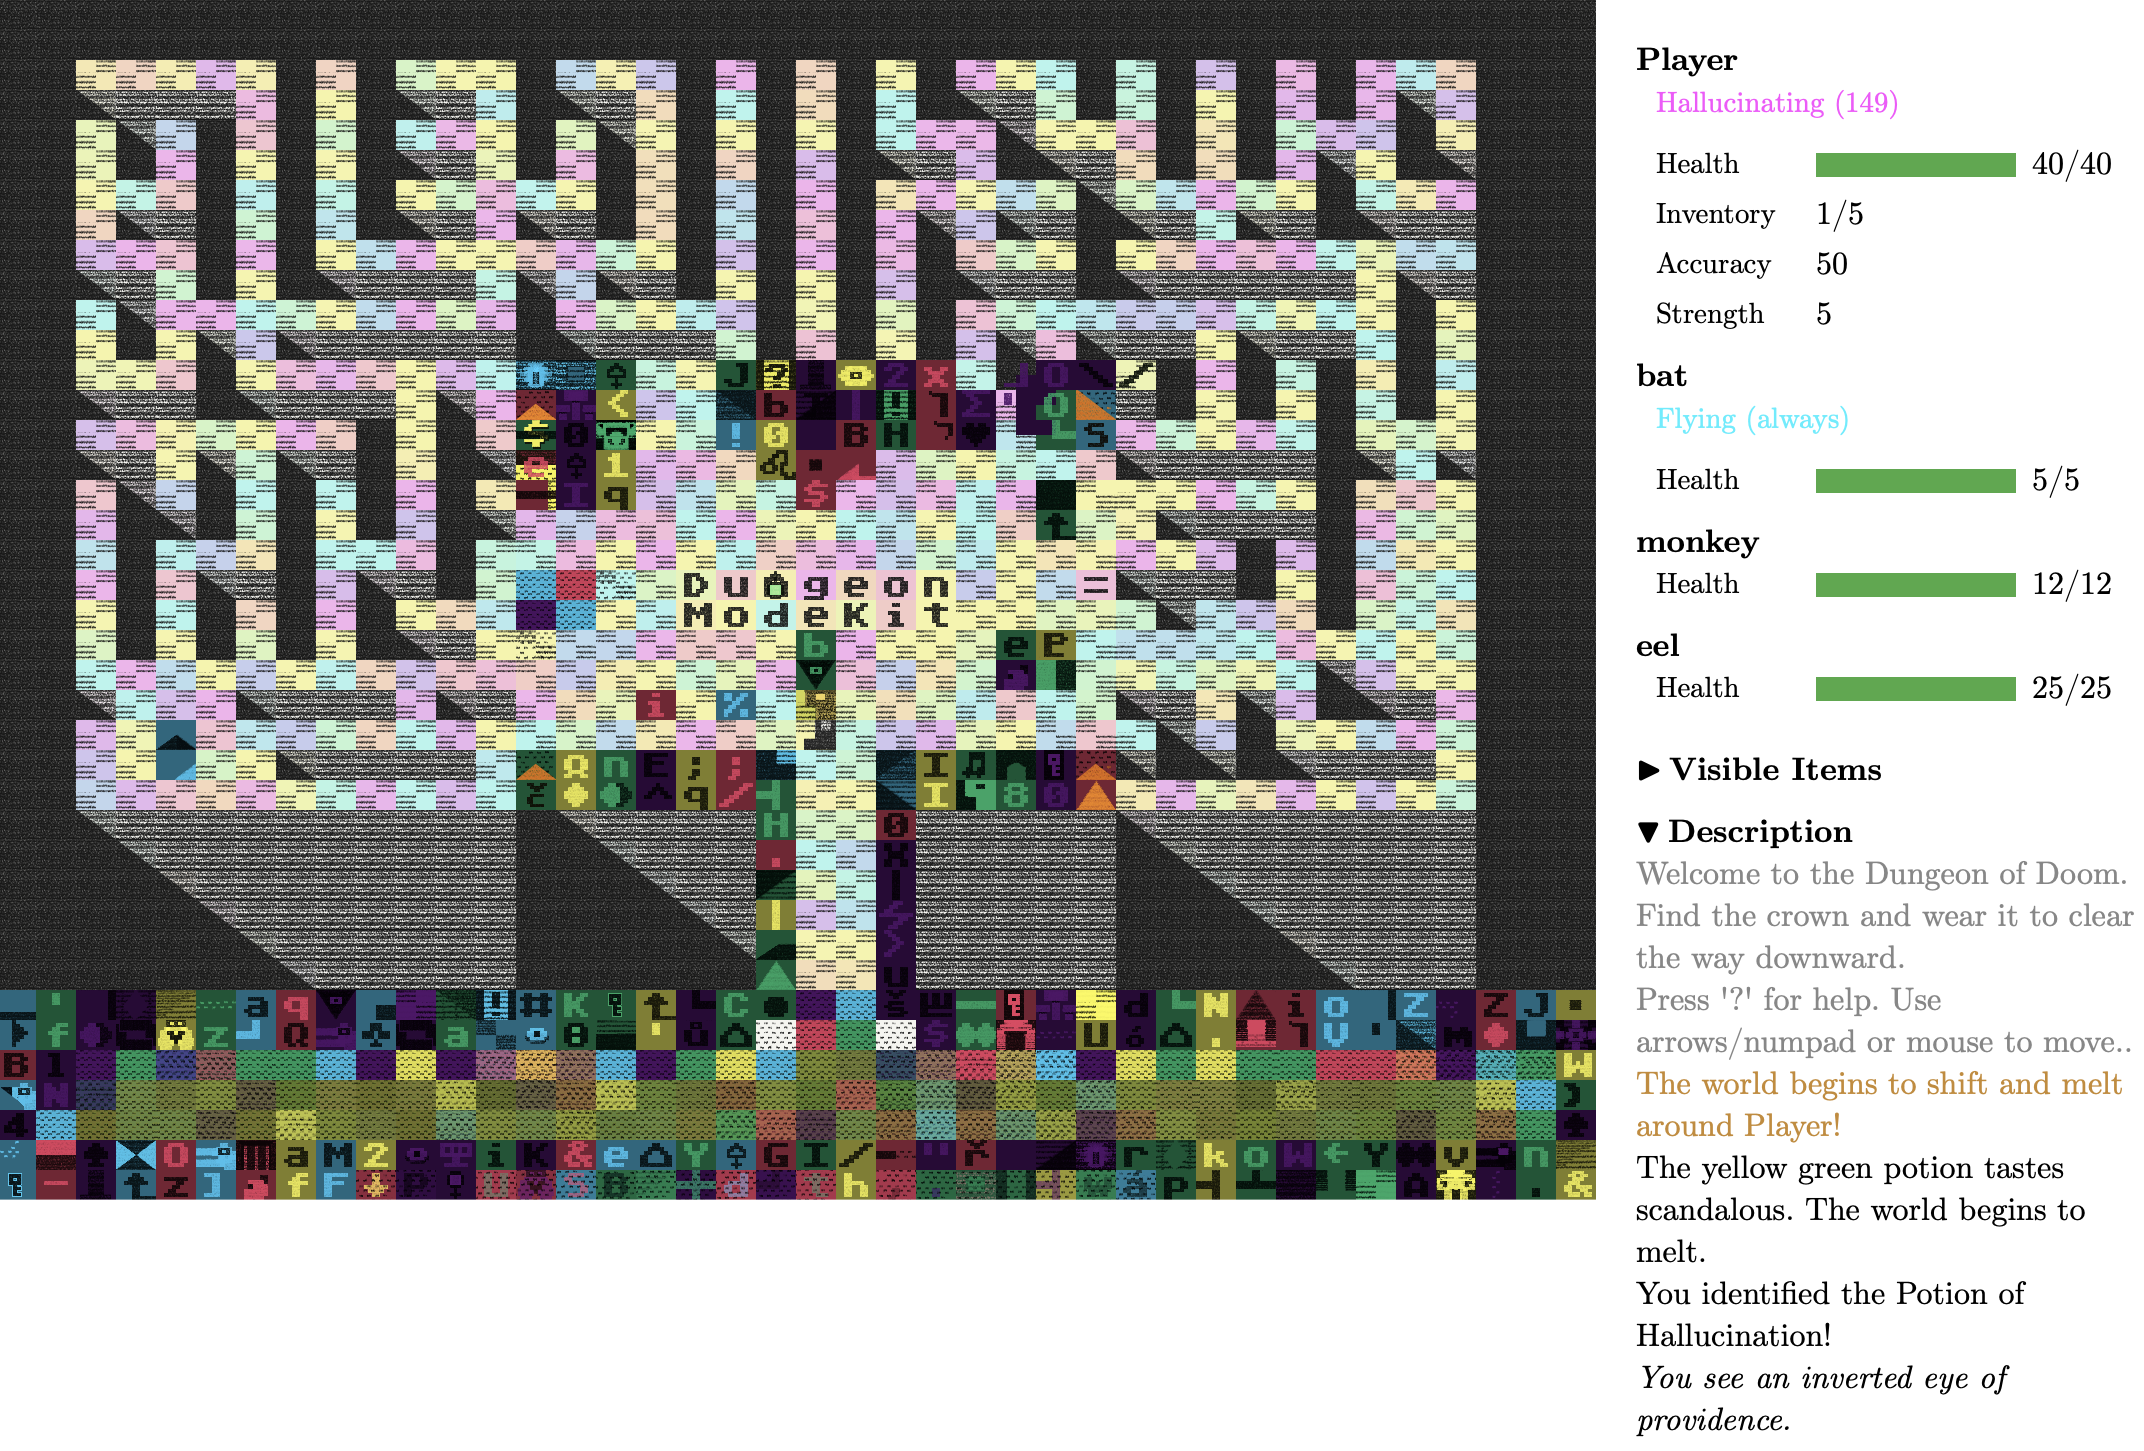
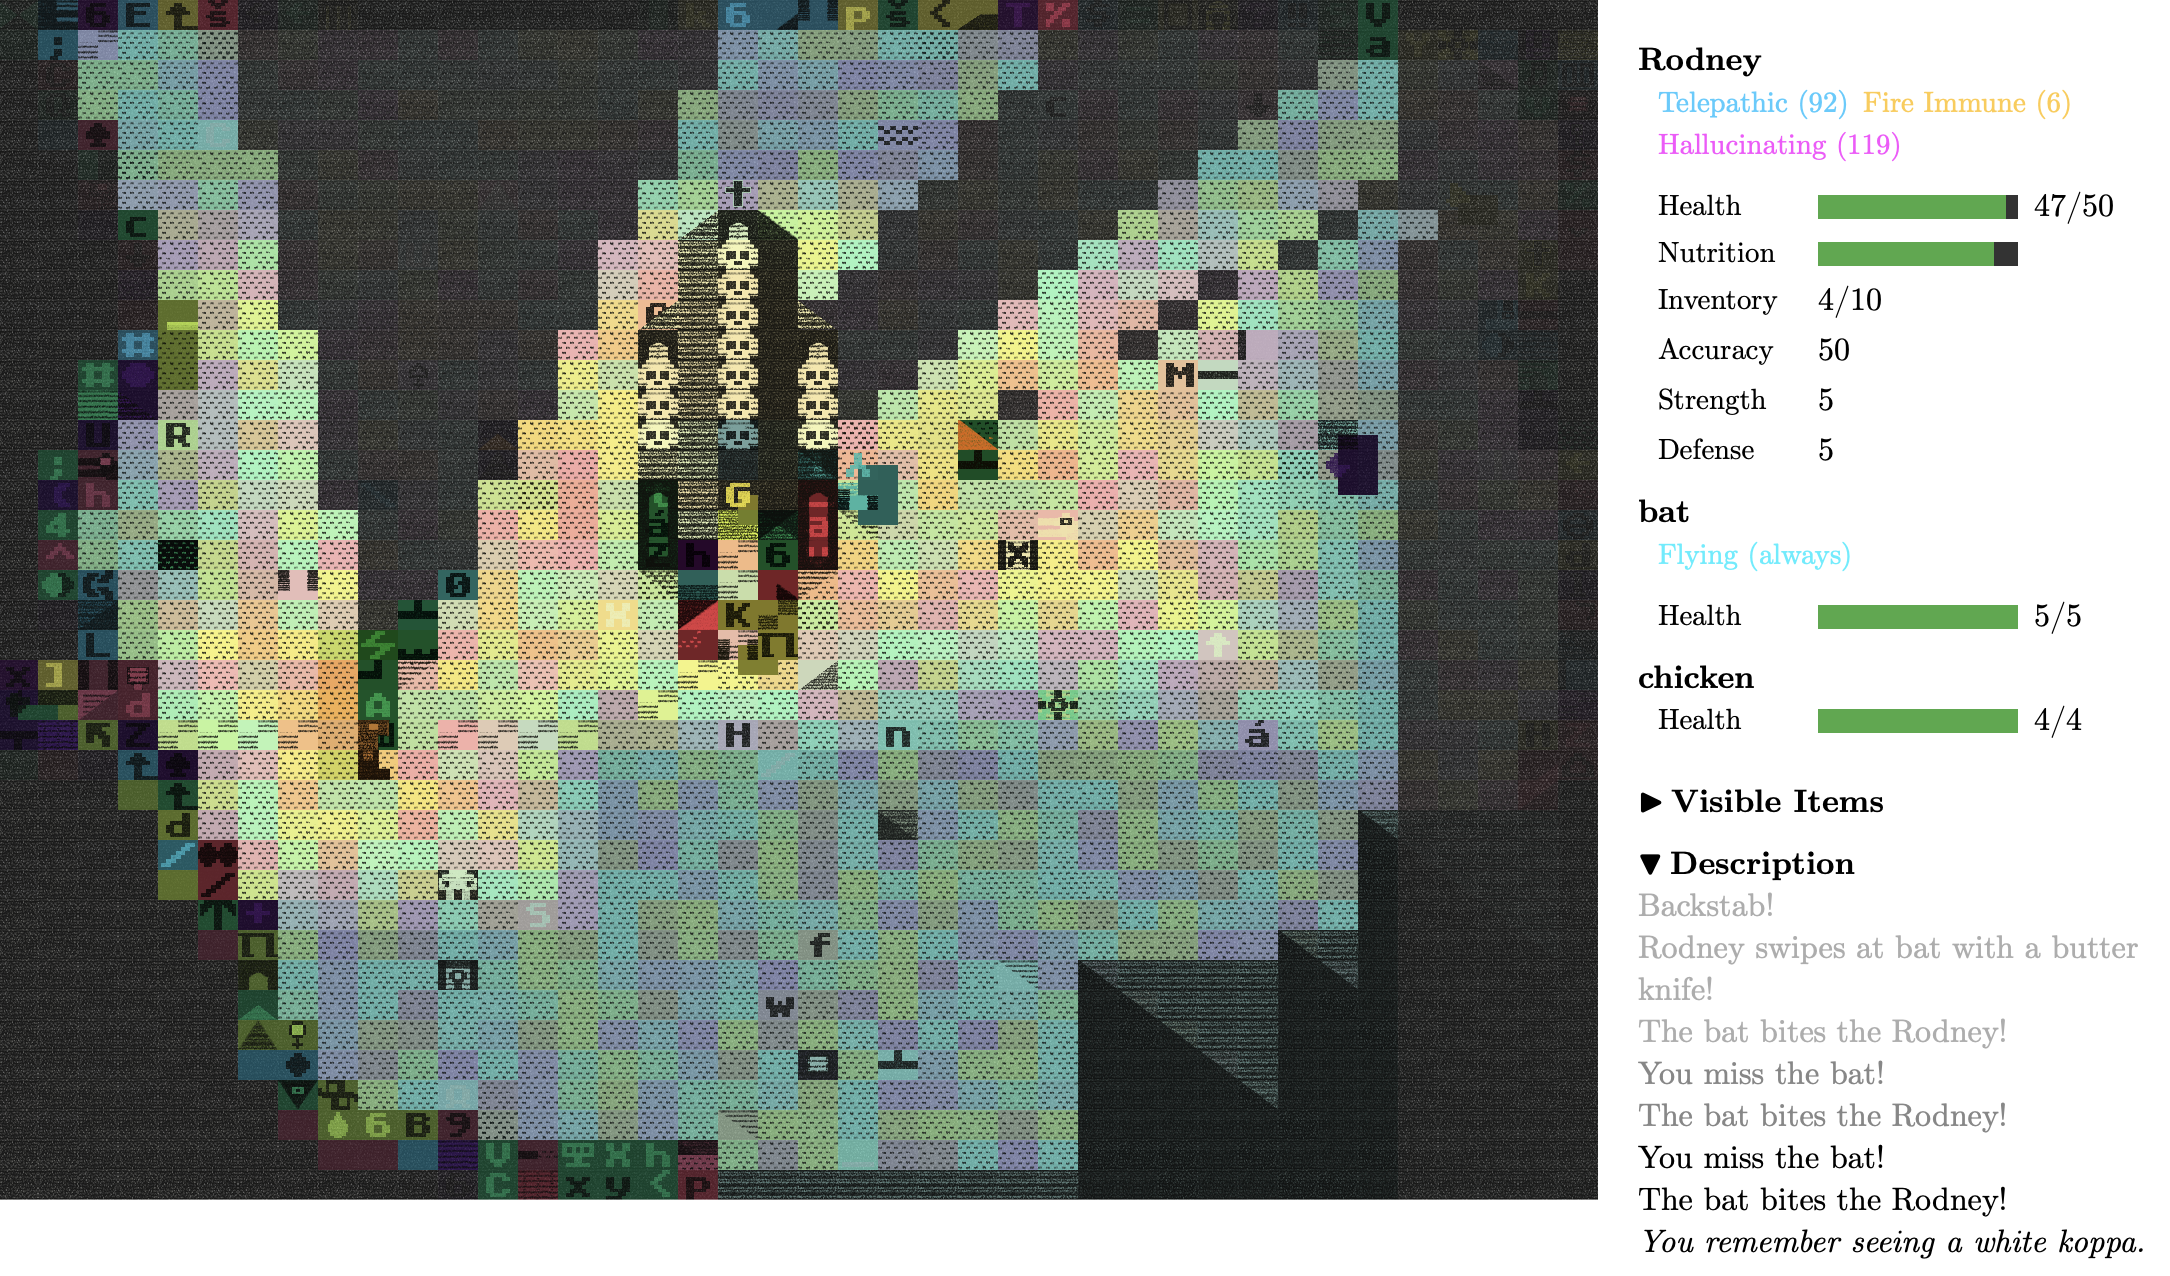
v 1.18b
- switched to a cooler hallucination image in journal entry

diff --git a/sound.js b/sound.js
@@ -17,7 +17,6 @@ class AudioManager {
 
     initHowler() {
         try {
-            // Use URLs from sprite data if available, otherwise construct default paths
             let urls = this.audioSpriteData.urls;
 
             // If URLs are relative and start with /, prepend BASE_PATH
@@ -29,7 +28,6 @@ class AudioManager {
                     return url;
                 });
             } else {
-                // Fallback to default paths
                 const basePath = `${globalVars.BASE_PATH}/assets/audio/effects`;
                 const formats = ['mp3', 'ogg', 'm4a'];
                 urls = formats.map(ext => `${basePath}.${ext}`);
@@ -67,19 +65,14 @@ class AudioManager {
         }
 
         try {
-            // Check if the sound exists in the sprite
             if (!this.audioSpriteData.sprite[soundName]) {
                 console.warn(`Sound '${soundName}' not found in audio sprite`);
                 return;
             }
-
             const id = this.sound.play(soundName);
-
-            // Apply optional volume adjustment
             if (options.volume !== undefined) {
                 this.sound.volume(options.volume * this.volume, id);
             }
-
             // Apply optional pitch/rate adjustment
             if (options.rate !== undefined) {
                 this.sound.rate(options.rate, id);

diff --git a/docs/IDEAS.md b/docs/IDEAS.md
@@ -3,6 +3,7 @@
 
 ## Tweaks
 
+- are the level span inputs of biome and prototype editor consistantly starting with 1 or 0? start with 0 since those are often hand edited maps
 - food should be an item category option in the random items section of the biome editor
 - In the prototype-editor A single-level prototype is either a generator or an authored map, hiding biome stuff. A multi-level prototype uses either basic map-generator or biomes with level overrides for authored maps. The current "No procedural generator — the map comes from a hand-authored .tmj. Placed features below still apply." message when a single generator default isn't enabled is misleading, and when the section is disabled we don't expect to be able to set placed features, despite the message saying otherwise. Should the "map generator" section in prototype-editor defaults be a biomes/single generator/authored map radio button selection? We can eliminate some of this with the single level/multi level toggle.
 - in prototype-editor we should be able to turn off biomes on a multi-level prototype and just use defaults- change 'floor plan' section name to 'biome plan' or something, add a top toggle to disable it to use defaults only
@@ -11,6 +12,11 @@
 ---
 
 ## Feature ideas
+
+## Actor selectors in biome editor
+
+- Add the ability to pick which actor is used as main walls
+- add the ability to define blob areas of actors other than just lava, sewage, or water
 
 ## other actors need to be able to use stairs
 
